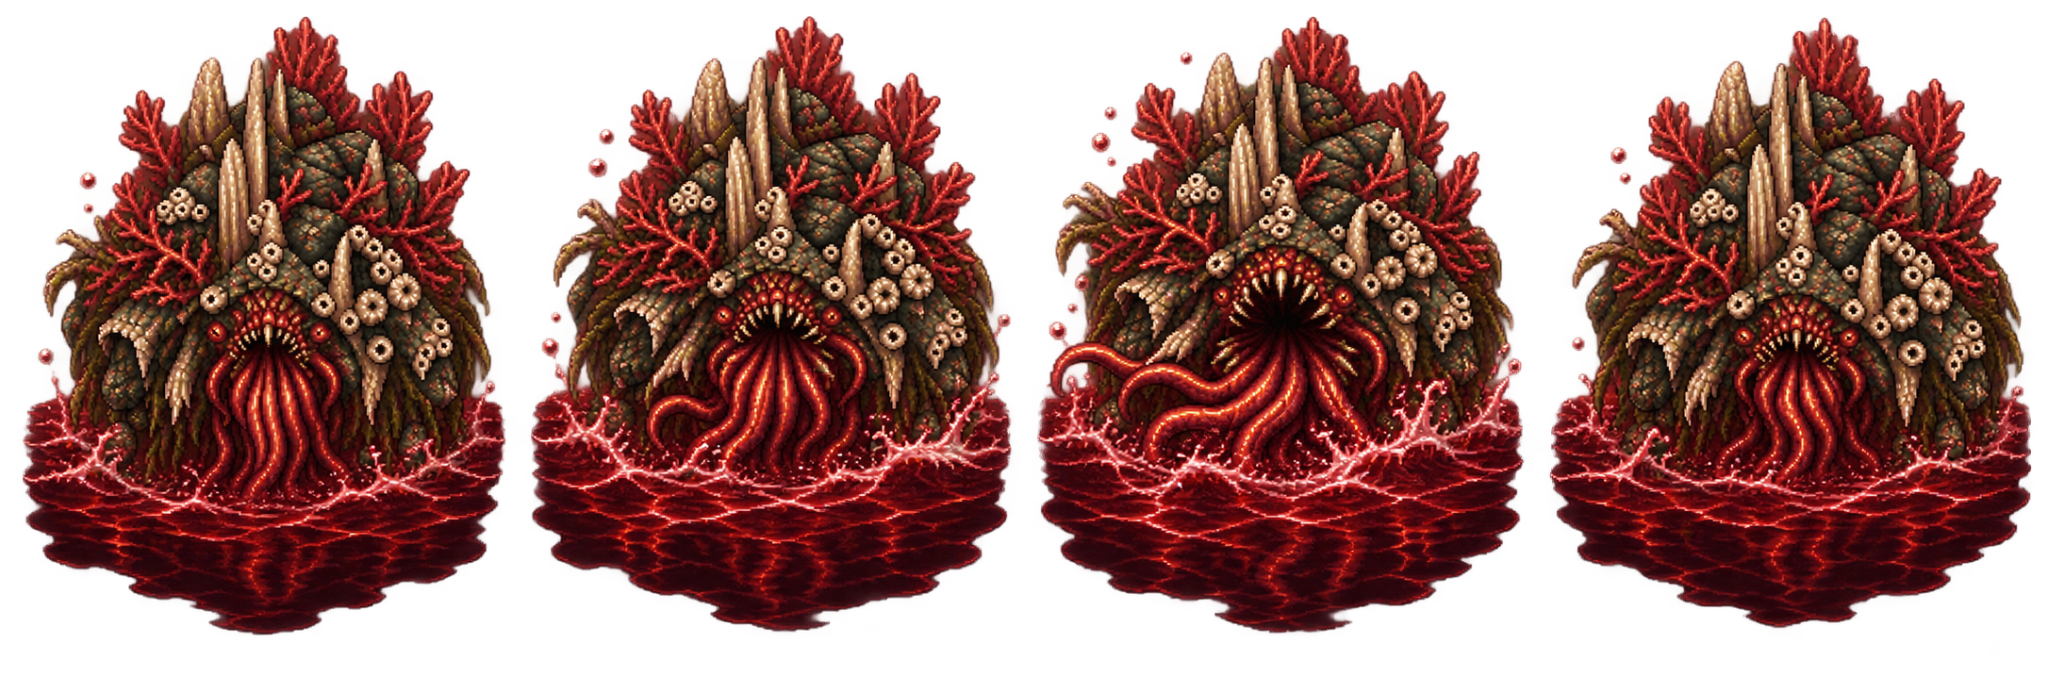
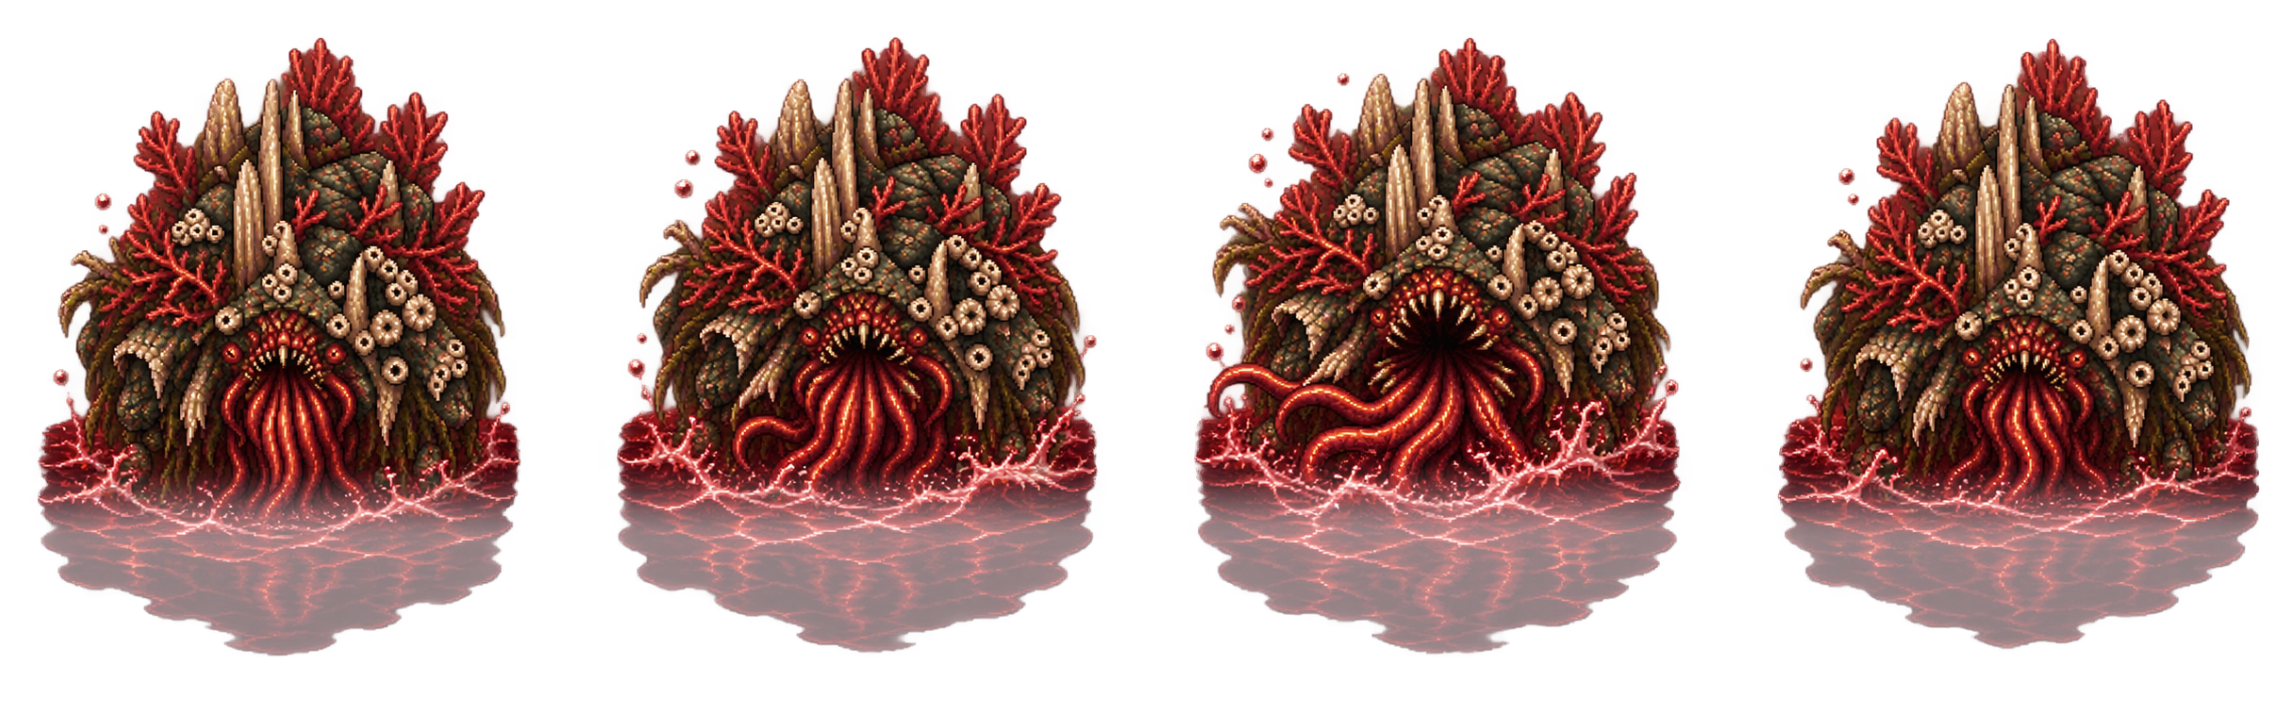
assets: Recife Devorador submerso em quatro quadros originais
Preserve original ZIP PNG; configure 543x724 frames with 40px spacing; adapt ping-pong animation, scale, PWA and hash-locked regression.

diff --git a/sw.js b/sw.js
@@ -1,4 +1,4 @@
-const CACHE_NAME='omar-mar-de-sangue-v89-tentaculo-submerso-20261027';
+const CACHE_NAME='omar-mar-de-sangue-v90-recife-submerso-20261028';
 const ASSETS=["./","./index.html","./asset-audit.html","./PwaStatus.js","./Game.js","./SeaOceanV3.js","./assets/tiles/sea-v3/sea_chunk_01_base.webp","./assets/tiles/sea-v3/sea_chunk_02_base.webp","./assets/tiles/sea-v3/sea_chunk_03_base.webp","./assets/tiles/sea-v3/sea_chunk_04_base.webp","./SeaEffects.js","./SeaWeather.js","./SeaMenus.js","./SeaPoliticalEvents.js","./SeaIslands.js","./SeaAtlas.js","./SeaGunnery.js","./SeaImpulse.js","./SeaCannonChargeFx.js","./SeaContracts.js","./SeaPerformance.js","./SeaPerformanceCompare.js","./SeaPixelPolish.js","./SeaSaveTransfer.js","./PortUI.js","./PortUI.css","./PortThemeAbyss.css","./style.css","./phaser.min.js","./manifest.webmanifest","./assets/abyss/coral_horror.png","./assets/abyss/cult_barge.png","./assets/abyss/dagon_eye.png","./assets/abyss/dreadnought.png","./assets/abyss/drowned_choir.png","./assets/abyss/kraken.png","./assets/abyss/kraken_tentacle.png","./assets/abyss/shell_guardian.png","./assets/abyss/temple_turtle.png","./assets/fx/cannon_charge_sparks.png","./assets/fx/blast_0.png","./assets/fx/blast_1.png","./assets/fx/blast_2.png","./assets/fx/blast_3.png","./assets/fx/foam_0.png","./assets/fx/foam_1.png","./assets/fx/foam_2.png","./assets/fx/foam_3.png","./assets/fx/gold_0.png","./assets/fx/gold_1.png","./assets/fx/gold_2.png","./assets/fx/gold_3.png","./assets/fx/muzzle_0.png","./assets/fx/muzzle_1.png","./assets/fx/muzzle_2.png","./assets/fx/muzzle_3.png","./assets/fx/muzzle_4f.png","./assets/fx/shrine_glow.png","./assets/fx/smoke_0.png","./assets/fx/smoke_1.png","./assets/fx/smoke_2.png","./assets/fx/smoke_3.png","./assets/fx/splash_0.png","./assets/fx/splash_1.png","./assets/fx/splash_2.png","./assets/fx/splash_3.png","./assets/fx/splash_4f.png","./assets/fx/splinters_0.png","./assets/fx/splinters_1.png","./assets/fx/splinters_2.png","./assets/fx/splinters_3.png","./assets/fx/splinters_4f.png","./assets/fx/violet_0.png","./assets/fx/violet_1.png","./assets/fx/violet_2.png","./assets/fx/violet_3.png","./assets/islands/island_daegon.png","./assets/islands/island_demeter.png","./assets/islands/island_monastery.png","./assets/islands/island_reef.png","./assets/islands/island_ruin.png","./assets/islands/island_wreck.png","./assets/items/treasure_chest.png","./assets/items/treasure_coin.png","./assets/items/treasure_crate.png","./assets/menu_bg.png","./assets/ui/hud-helm-landscape.png","./assets/ui/hud-combat-landscape.png","./assets/sprites/enemy_admiral.png","./assets/sprites/enemy_bombard.png","./assets/sprites/enemy_corsair.png","./assets/sprites/enemy_court_ship.png","./assets/sprites/enemy_galleon.png","./assets/sprites/enemy_ram.png","./assets/sprites/enemy_spectral.png","./assets/player/mar_de_sangue_navio_proa_baixo_20_evolucoes.png","./assets/tiles/sea_base.png","./assets/tiles/sea_blood.png","./assets/tiles/sea_foam.png","./assets/tiles/sea_mist.png","./assets/ui/command_console.png","./assets/ui/command_console_analog.png","./assets/v15/beast_coral.png","./assets/abyss/dagon.png","./assets/v15/beast_eel_swim.webp","./assets/v15/beast_drowned.png","./assets/v15/beast_kraken.png","./assets/v15/beast_tentacle.png","./assets/v15/fx_frame_00.png","./assets/v15/fx_frame_01.png","./assets/v15/fx_frame_02.png","./assets/v15/fx_frame_03.png","./assets/v15/fx_frame_04.png","./assets/v15/fx_frame_05.png","./assets/v15/fx_frame_06.png","./assets/v15/fx_frame_07.png","./assets/v15/fx_frame_08.png","./assets/v15/fx_frame_09.png","./assets/v15/fx_frame_10.png","./assets/v15/fx_frame_11.png","./assets/v15/fx_frame_12.png","./assets/v15/fx_frame_13.png","./assets/v15/fx_frame_14.png","./assets/v15/fx_frame_15.png","./assets/v15/ship_admiral.png","./assets/v15/ship_blood.png","./assets/v15/ship_chapel.png","./assets/v15/ship_flagship.png","./assets/v15/ship_merchant.png","./assets/v15/ship_ram.png","./assets/v15/ship_royal.png","./assets/v15/ship_sloop.png","./assets/v15/ship_spectral.png","./assets/v15/ship_wrecked.png","./icons/icon-192.png","./icons/icon-512.png"];
 self.addEventListener('install',event=>event.waitUntil(caches.open(CACHE_NAME).then(c=>c.addAll(ASSETS)).then(()=>self.skipWaiting())));
 self.addEventListener('activate',event=>event.waitUntil(caches.keys().then(keys=>Promise.all(keys.filter(k=>k!==CACHE_NAME && k.startsWith('omar-mar-de-sangue')).map(k=>caches.delete(k)))).then(()=>self.clients.claim())));

diff --git a/Game.js b/Game.js
@@ -259,9 +259,10 @@ class SeaBoot extends Phaser.Scene {
         this.load.image('foe-cult', 'assets/abyss/cult_barge.png');
         this.load.image('foe-dreadnought', 'assets/abyss/dreadnought.png');
         this.load.image('foe-drowned', 'assets/abyss/drowned_choir.png');
-        // Recife Devorador: novo monstro, independente do Horror de Coral V15.
+        // Recife Devorador: arte submersa original em quatro quadros RGBA 543×724,
+        // com espaçamento transparente de 40 px entre quadros. Independente do Horror de Coral V15.
         this.load.spritesheet('reef-devourer-animated', 'assets/abyss/coral_horror.png', {
-            frameWidth:512, frameHeight:682, endFrame:3
+            frameWidth:543, frameHeight:724, spacing:40, endFrame:3
         });
         this.load.image('foe-shell', 'assets/abyss/shell_guardian.png');
         this.load.image('foe-turtle', 'assets/abyss/temple_turtle.png');
@@ -817,10 +818,10 @@ class Game extends Phaser.Scene {
         // Spritesheet source height is ONE frame; four frames are side by side.
         const animated682 = (type==='olho_dagon' && tex==='dagon-eye-animated') ||
             (type==='dagon' && tex==='dagon-animated') ||
-            (type==='recife' && tex==='reef-devourer-animated') ||
             (type==='kraken' && tex==='kraken-animated');
         const sourceH = type==='afogados' && tex==='drowned-animated' ? 646 :
             type==='coral' && tex==='coral-animated' ? 644 :
+            type==='recife' && tex==='reef-devourer-animated' ? 724 :
             type==='tentaculo' && tex==='tentacle-animated' ? 724 :
             animated682 ? 682 : (this.textures.get(tex).getSourceImage().height || 160);
         const supernatural = ['enguia','afogados','coral','recife','caranguejo','tartaruga','tentaculo','kraken','dagon','olho_dagon'].includes(type);
@@ -1267,8 +1268,9 @@ class Game extends Phaser.Scene {
                 if(e.drownedFrame!==frame){e.ship.setFrame(frame);e.drownedFrame=frame;}
             }
             if(e.type==='recife' && e.ship.texture.key==='reef-devourer-animated'){
-                // Boca, tentáculos e bolhas da criatura independente, sem afetar a física.
-                const frame=Math.floor((t*4+e.visualPhase)%4);
+                // Animação original 1-2-3-4-3-2; apenas apresentação, sem alterar física.
+                const sequence=[0,1,2,3,2,1];
+                const frame=sequence[Math.floor((t*1000/175+e.visualPhase)%sequence.length)];
                 if(e.reefFrame!==frame){e.ship.setFrame(frame);e.reefFrame=frame;}
             }
             if(e.type==='coral' && e.ship.texture.key==='coral-animated'){
